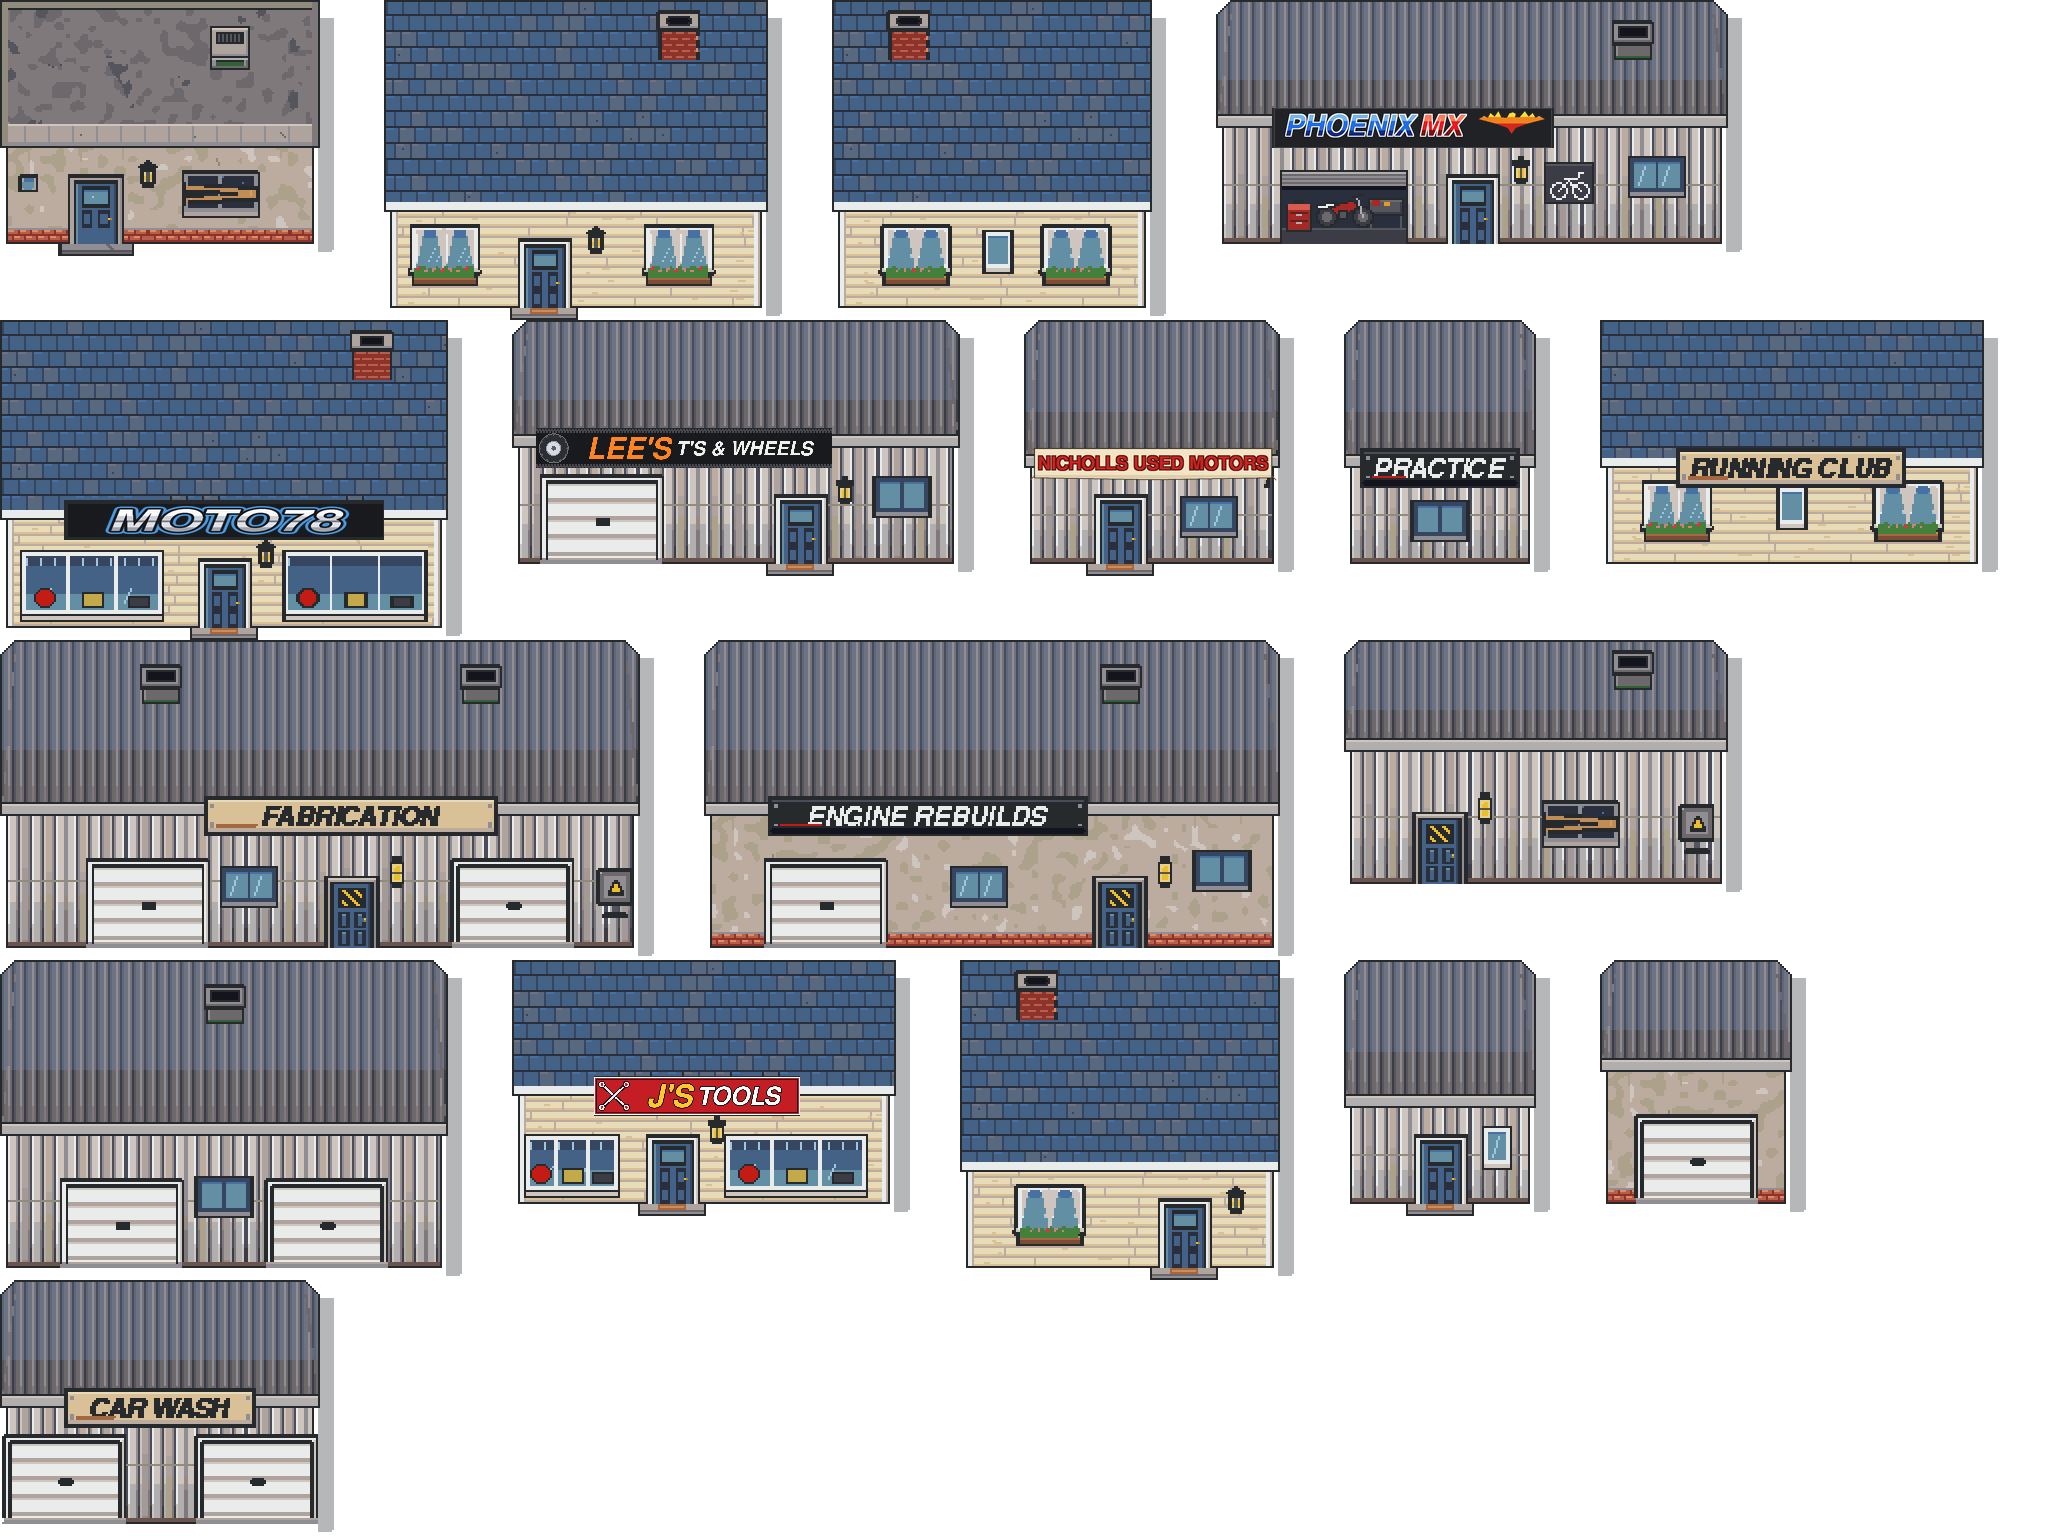
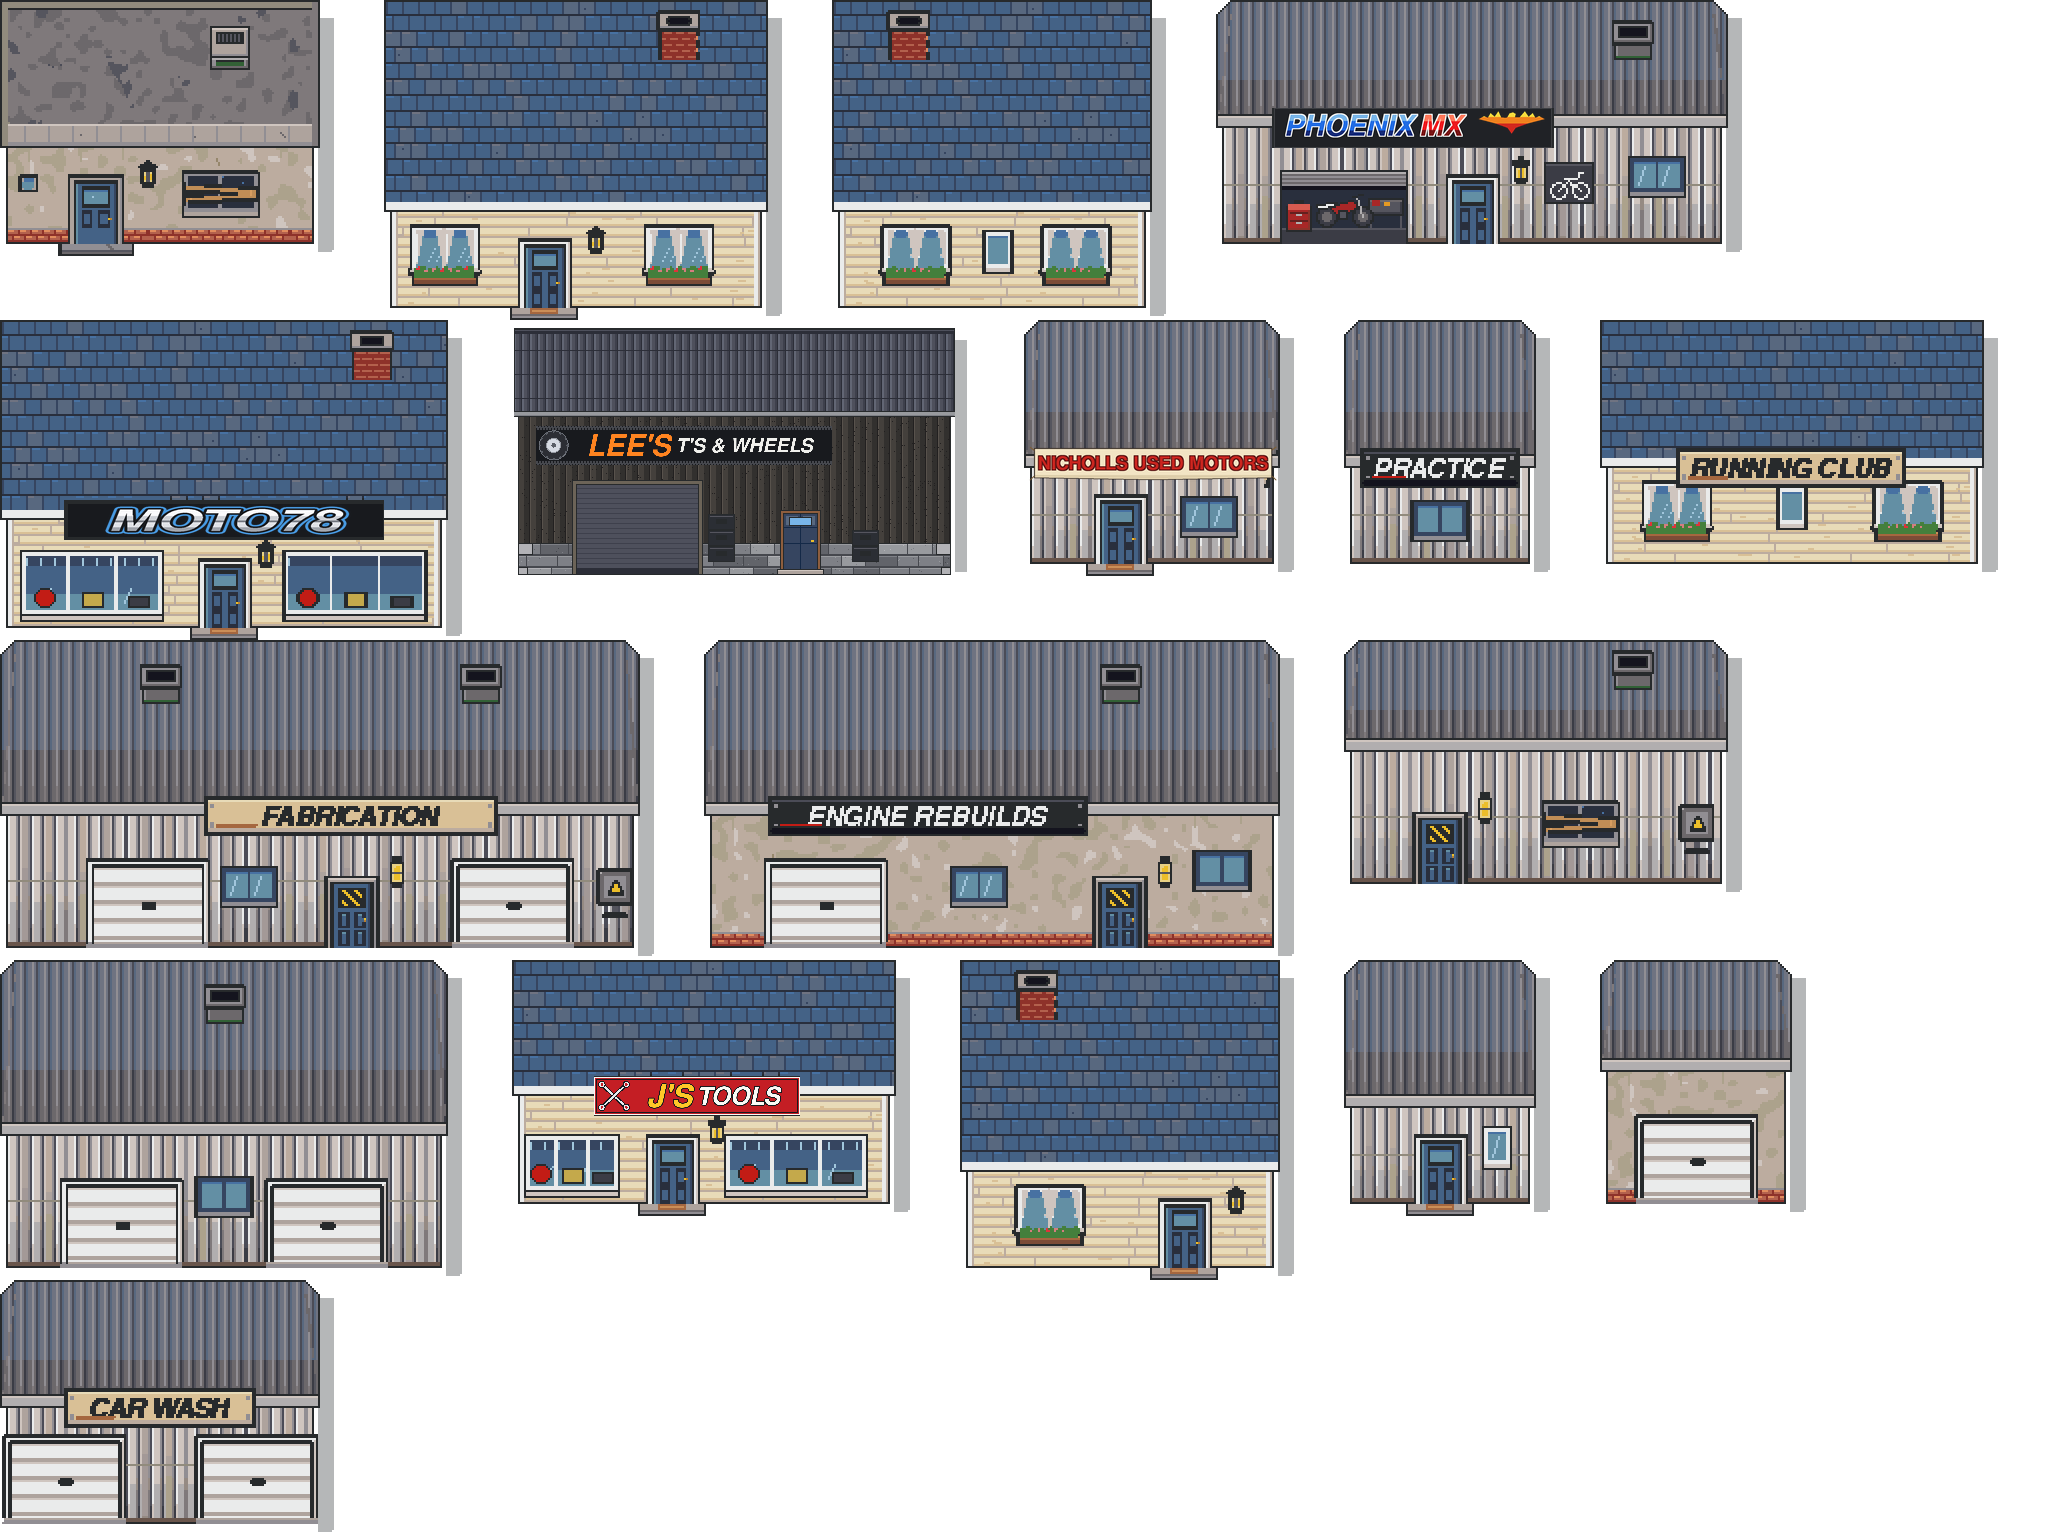
Home Town Lee's redrawn from Boss's three picks, and J's Tools sign options B-D (Boss, 31 Oct 2026)
Lee's: the Highlands tarred-timber shed with granite base and roller door, the Beach
Town shop's navy door, the Home Town board's logo. Drawn by the project's
areas-2-8/tools/home_lees.py; same footprint and door, so the map is unchanged.
J's: js_logo_b (blue enamel, cog), js_logo_c (hazard stripes, hammer), js_logo_d
(racing green, roundel, chequers) added for Boss to choose from.

Claude-Session: https://claude.ai/code/session_01NrCmSZTa3AS4GD7xDnHuYk

Changed region(s): [[0.25, 0.1875, 0.5, 0.375]]

diff --git a/tools/art/shop_logos.py b/tools/art/shop_logos.py
@@ -107,3 +107,90 @@ def js_logo(w, h):
     x += (room - total) / 2
     _runs(d, [("J'S", fa, ba, (255, 200, 40, 255), INK), ('TOOLS', fb, bb, (250, 250, 246, 255), INK)], x, H, 3 * S)
     return _done(big, w, h)
+
+
+# J's Tools sign options for Boss to choose from (Boss, 31 Oct 2026: "I want a few different designs
+# on the same set of buildings for J's before i choose that one"). js_logo above is option A.
+
+def _cog(d, cx, cy, r, teeth, col, edge, hole):
+    pts = []
+    for k in range(teeth * 2):
+        a = k * math.pi / teeth
+        rr = r if k % 2 == 0 else r * 0.78
+        for da in (-0.22, 0.22):
+            pts.append((cx + rr * math.cos(a + da * math.pi / teeth * 2), cy + rr * math.sin(a + da * math.pi / teeth * 2)))
+    d.polygon(pts, fill=col, outline=edge)
+    d.ellipse((cx - r * 0.35, cy - r * 0.35, cx + r * 0.35, cy + r * 0.35), fill=hole, outline=edge, width=S)
+
+
+def js_logo_b(w, h):
+    """B: a blue enamel workshop plate with a cog, J'S TOOLS in cream, a cream pinstripe."""
+    W, H = w * S, h * S
+    BLUE = (28, 70, 150, 255)
+    big = Image.new('RGBA', (W, H), BLUE)
+    d = ImageDraw.Draw(big)
+    d.rounded_rectangle((0, 0, W - 1, H - 1), radius=4 * S, fill=BLUE, outline=INK, width=S)
+    d.rounded_rectangle((2 * S, 2 * S, W - 1 - 2 * S, H - 1 - 2 * S), radius=3 * S, outline=(244, 232, 200, 255), width=S)
+    cy, r = H / 2, H * 0.36
+    cx = r + 6 * S
+    _cog(d, cx, cy, r, 8, (214, 218, 226, 255), INK, BLUE)
+    x = cx + r + 3 * S
+    room = W - x - 5 * S
+    f, b = _fit(d, "J'S TOOLS", room, H - 9 * S)
+    x += (room - (b[2] - b[0])) / 2
+    _runs(d, [("J'S TOOLS", f, b, (244, 232, 200, 255), INK)], x, H, 0)
+    return _done(big, w, h)
+
+
+def js_logo_c(w, h):
+    """C: yellow and black hazard stripes at both ends, a black panel, J'S in yellow over a hammer."""
+    W, H = w * S, h * S
+    YEL = (250, 196, 30, 255)
+    big = Image.new('RGBA', (W, H), INK)
+    d = ImageDraw.Draw(big)
+    e = H * 0.9
+    for x0, x1 in ((0, e), (W - e, W)):
+        d.rectangle((x0, 0, x1, H), fill=YEL)
+        for k in range(-4, 8):
+            sx = x0 + k * 4 * S
+            d.polygon([(sx, H), (sx + 2 * S, H), (sx + 2 * S + H, 0), (sx + H, 0)], fill=INK)
+        d.rectangle((x0, 0, x1, H), outline=INK, width=S)
+    d.rectangle((0, 0, W - 1, H - 1), outline=INK, width=S)
+    # a claw hammer across the left of the panel
+    hx0, hx1, hy = e + 4 * S, e + 4 * S + H * 0.9, H / 2
+    d.line((hx0, hy + H * 0.2, hx1 - H * 0.2, hy - H * 0.12), fill=(170, 112, 60, 255), width=int(2.6 * S))
+    d.polygon([(hx1 - H * 0.3, hy - H * 0.36), (hx1, hy - H * 0.26), (hx1 - H * 0.08, hy + H * 0.04), (hx1 - H * 0.36, hy - H * 0.06)], fill=(200, 204, 212, 255), outline=(250, 250, 246, 255))
+    x = hx1 + 3 * S
+    room = W - e - x - 3 * S
+    fa, ba = _fit(d, "J'S", room * 0.34, H - 6 * S)
+    fb, bb = _fit(d, 'TOOLS', room * 0.6, int((H - 6 * S) * 0.75))
+    total = (ba[2] - ba[0]) + (bb[2] - bb[0]) + 3 * S
+    x += (room - total) / 2
+    _runs(d, [("J'S", fa, ba, YEL, INK), ('TOOLS', fb, bb, (250, 250, 246, 255), INK)], x, H, 3 * S)
+    return _done(big, w, h)
+
+
+def js_logo_d(w, h):
+    """D: racing green with a chequered strip along the bottom, a big white J in a red roundel, TOOLS in white."""
+    W, H = w * S, h * S
+    GREEN = (22, 92, 58, 255)
+    big = Image.new('RGBA', (W, H), GREEN)
+    d = ImageDraw.Draw(big)
+    c = 3 * S
+    for i, x in enumerate(range(0, W, c)):
+        for j, y in enumerate((H - 2 * c, H - c)):
+            d.rectangle((x, y, x + c - 1, y + c - 1), fill=(250, 250, 246, 255) if (i + j) % 2 else INK)
+    d.rectangle((0, 0, W - 1, H - 1), outline=INK, width=S)
+    top = H - 2 * c
+    cy, r = top / 2 + S, top * 0.42
+    cx = r + 5 * S
+    d.ellipse((cx - r - S, cy - r - S, cx + r + S, cy + r + S), fill=INK)
+    d.ellipse((cx - r, cy - r, cx + r, cy + r), fill=(196, 30, 36, 255), outline=(250, 250, 246, 255), width=S)
+    fj, bj = _fit(d, "J'S", r * 1.6, r * 1.3)
+    d.text((cx - (bj[2] + bj[0]) / 2, cy - (bj[3] + bj[1]) / 2), "J'S", font=fj, fill=(255, 200, 40, 255))
+    x = cx + r + 4 * S
+    room = W - x - 4 * S
+    f, b = _fit(d, 'TOOLS', room, top - 5 * S)
+    x += (room - (b[2] - b[0])) / 2
+    _runs(d, [('TOOLS', f, b, (250, 250, 246, 255), INK)], x, top + 2 * S, 0)
+    return _done(big, w, h)
